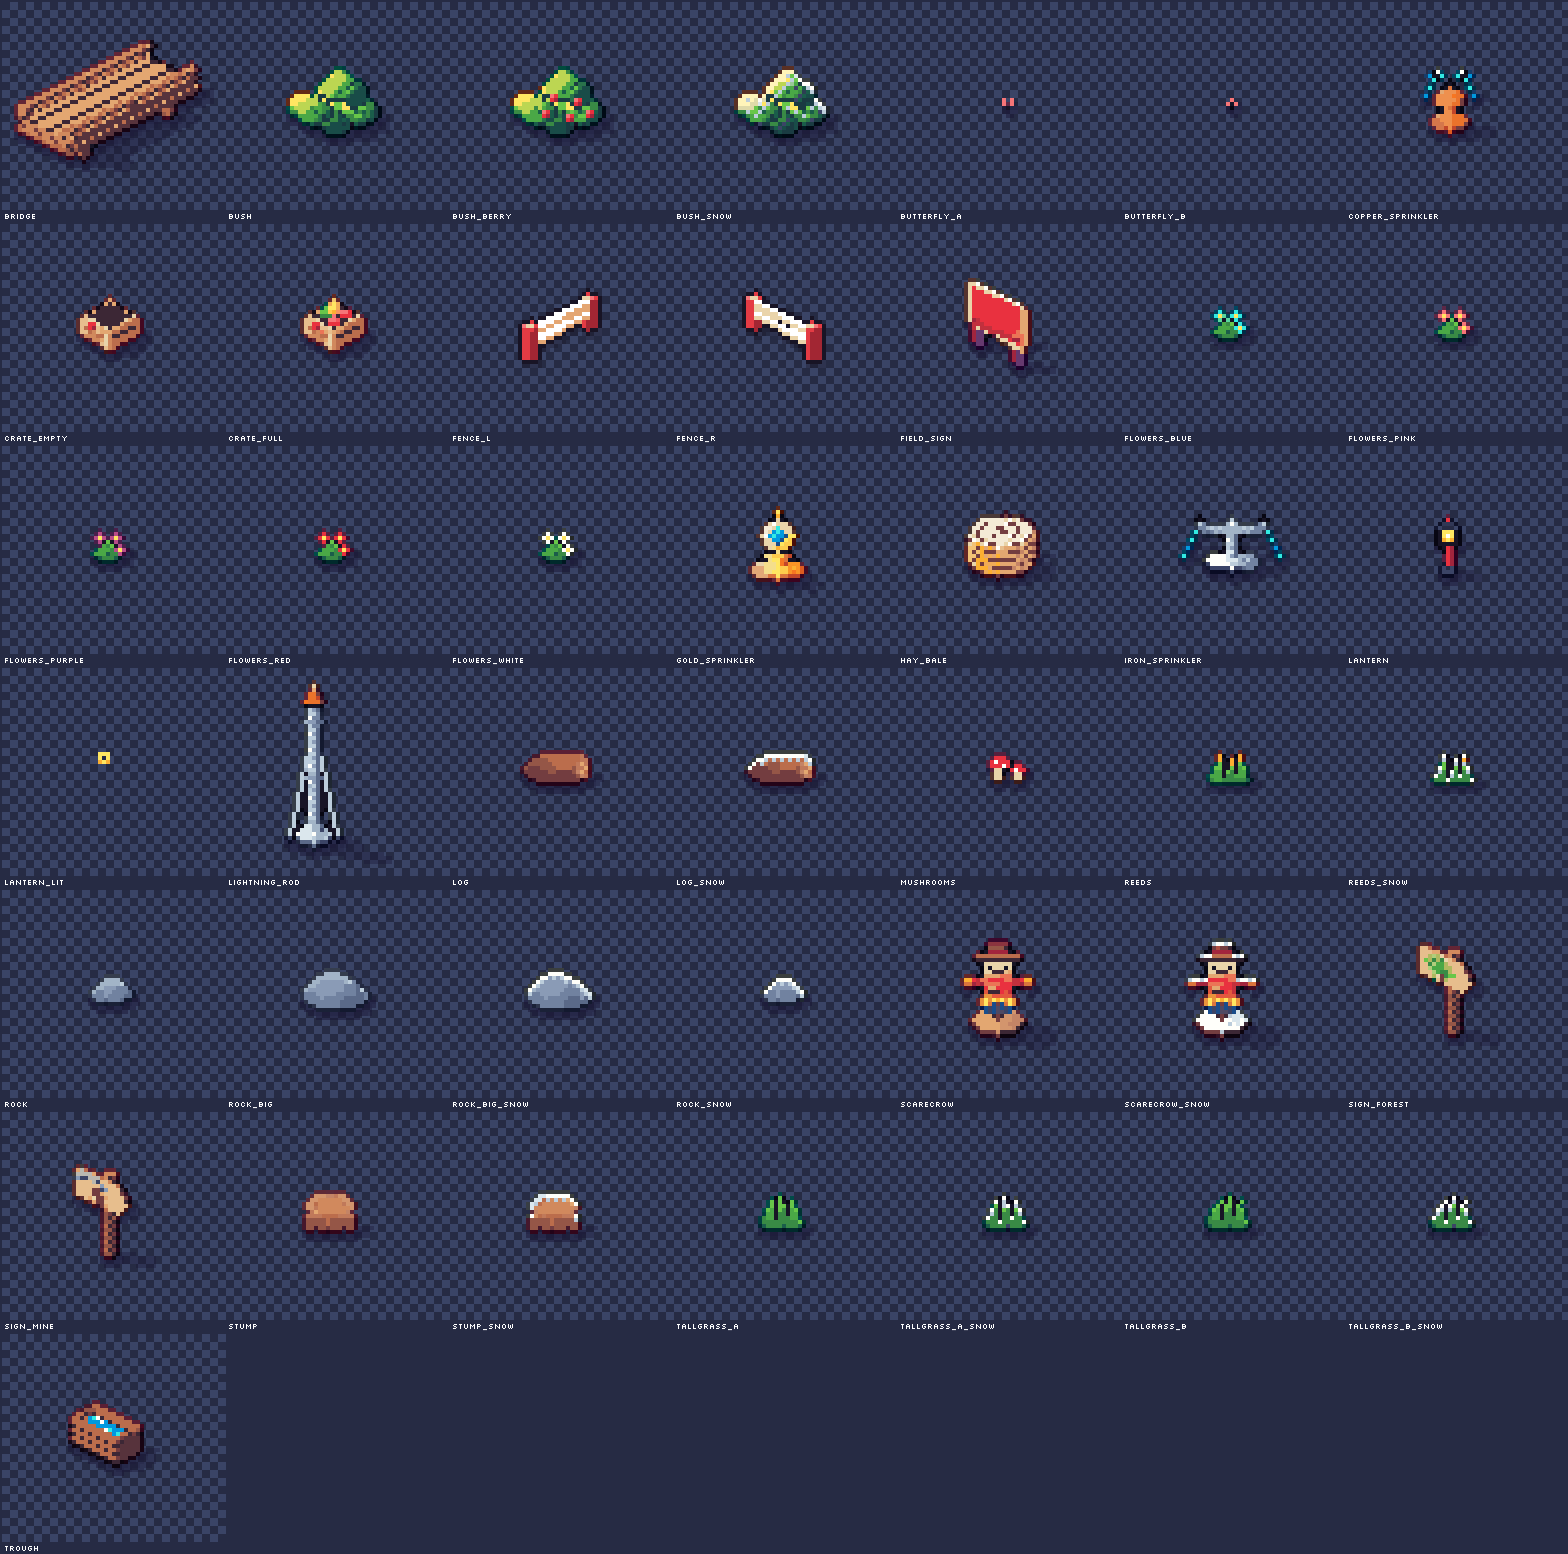
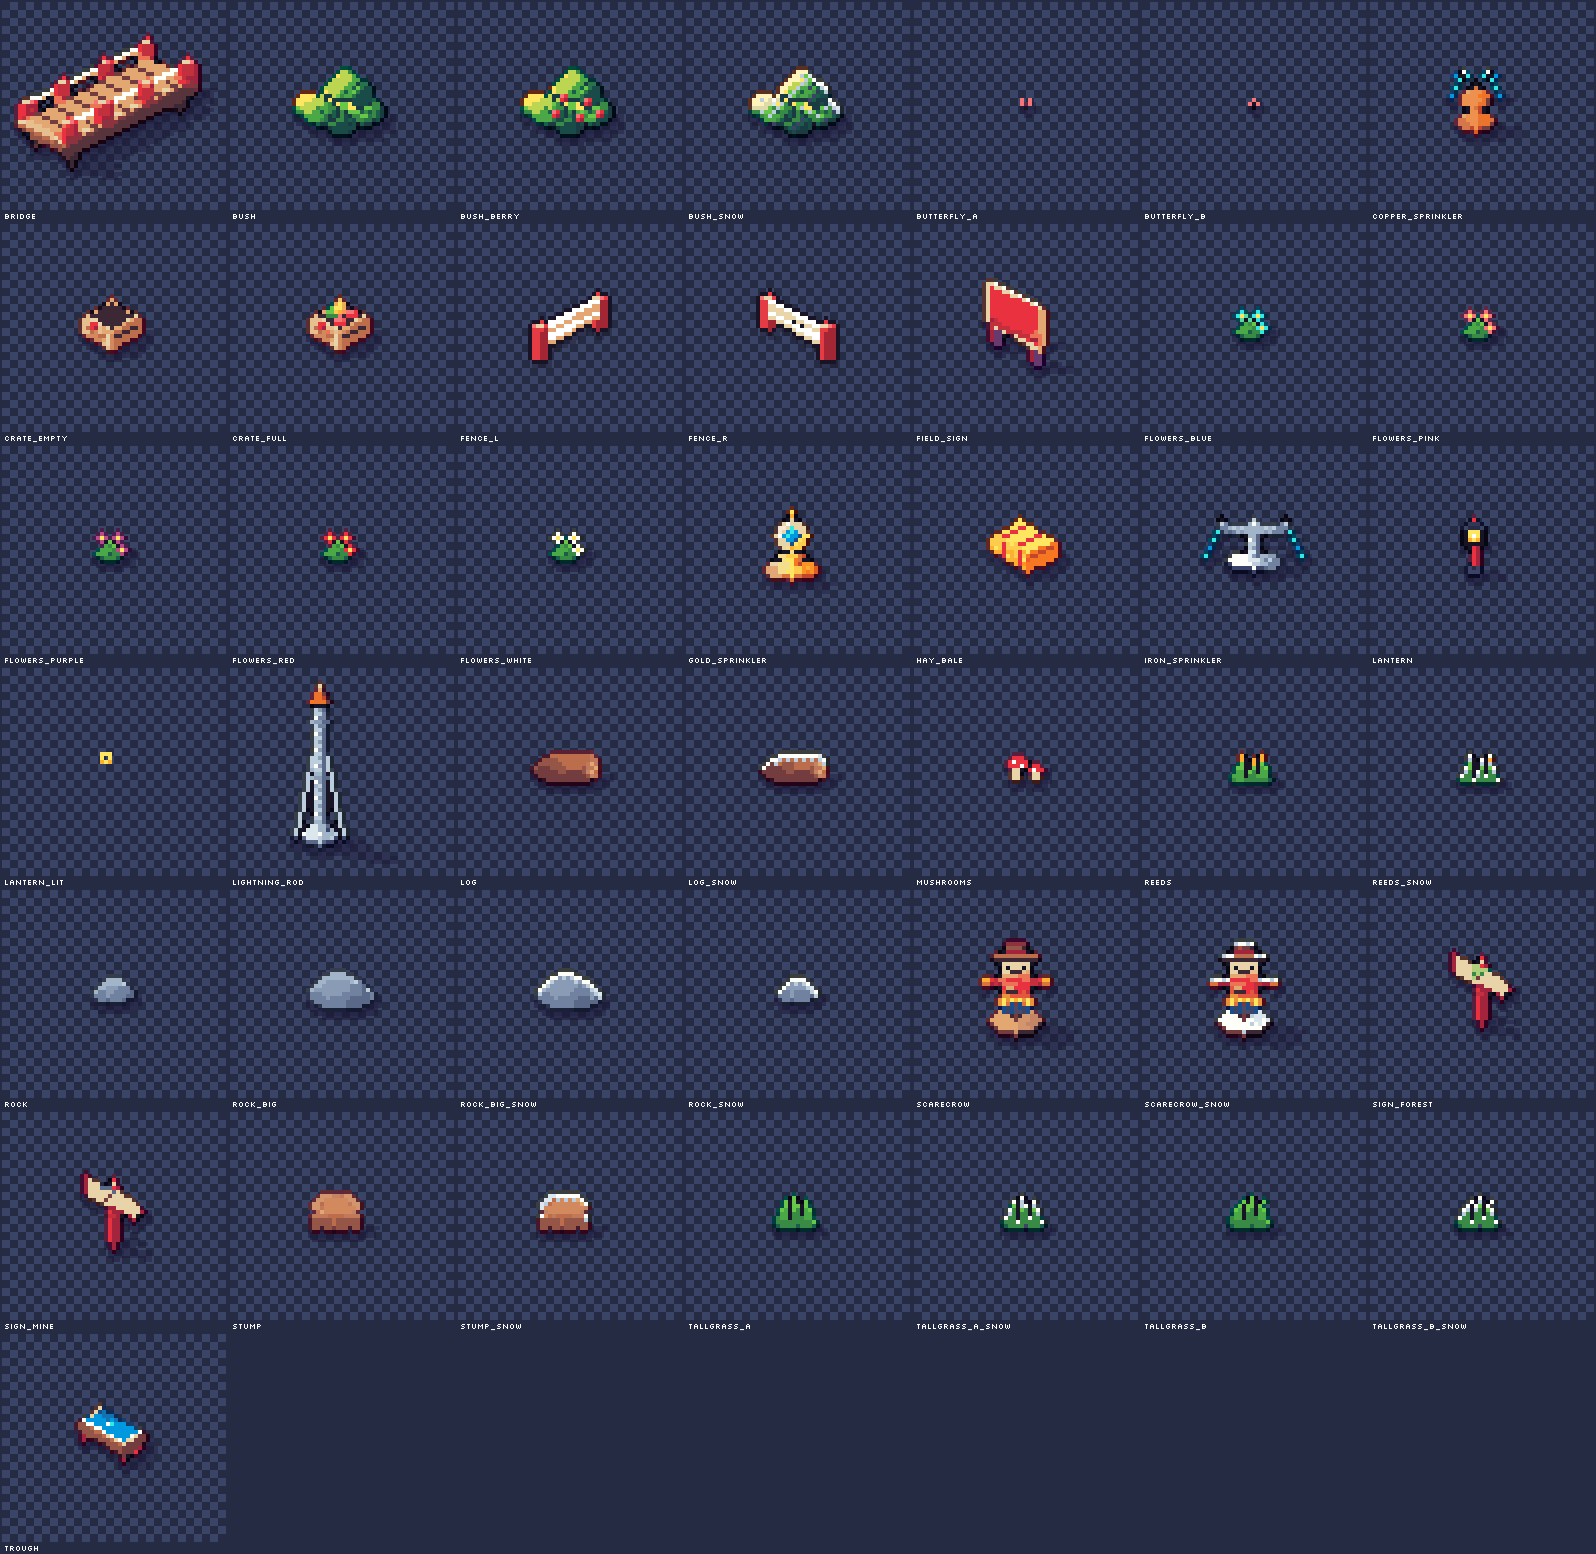
Art round 5: hand-pixeled bunkhouse, hay bale, trough, bridge and signposts
The bunkhouse's lit windows are an overlay on the same canvas and pivot.

Claude-Session: https://claude.ai/code/session_01WzqNnDX2S9CAE6QnGepdXg

diff --git a/farm-game/Tools/ArtGen/pixel/farm_hand.py b/farm-game/Tools/ArtGen/pixel/farm_hand.py
@@ -21,6 +21,8 @@ nothing is copied from them.
   deco/fence_r, fence_l                 one tile of fence along +col / +row, pivot at the start corner
   buildings/compost_bin, bakery_oven, preserves_jar, beehive, fruit_press, seed_maker
   buildings/oil_press, market_cart, harvest_shed, planter_shed, windmill
+  buildings/cottage_c(_lit)             the bunkhouse, and its lit windows for the night overlay
+  deco/hay_bale, trough, bridge, sign_forest, sign_mine
                                         farm machines, each with a cream icon plate
 
 Pivot = the ground centre of the footprint.
@@ -1241,6 +1243,177 @@ def preview5(out):
     sheet.resize((sheet.width * 4, sheet.height * 4), Image.NEAREST).save(out)
 
 
+# ---------------------------------------------------------------- yard props and the bunkhouse
+
+ICONS.update({
+    "bed": (["c....", "crrrr", "ccccc", "c...c"], {"c": "cream", "r": "red"}),
+    "tree": ([".g.", "ggg", "GgG", ".b."], {"g": "green", "G": "green_d", "b": "brown"}),
+    "pick": (["sss.", "...s", "..b.", ".b.."], {"s": "grey_d", "b": "brown"}),
+})
+
+
+def bunkhouse(lit=False):
+    """The farmhands' bunkhouse: a cream cottage with a red roof, red door and shutters, cream
+    window frames, a chimney and a bed on the plate. lit=True draws only the glowing windows (the
+    night overlay)."""
+    c = Iso(56, 60, 28, 42)
+    U, V, WH, PK = 4.4, 3.4, 13, 8
+    windows = [(V, -3.4, -1.8, 5.2, 9.4), (V, 2.0, 3.6, 5.2, 9.4)]          # on the +v face: (v, u0, u1, z0, z1)
+    gable = [(-1.0, 1.0, 5.2, 9.4), (-0.7, 0.7, WH + 1.6, WH + 4.4)]          # on the +u face: (v0, v1, z0, z1)
+    if lit:
+        for v, u0, u1, z0, z1 in windows:
+            c.poly([(u0 + 0.3, v, z0 + 0.5), (u1 - 0.3, v, z0 + 0.5), (u1 - 0.3, v, z1 - 0.5), (u0 + 0.3, v, z1 - 0.5)], "amber")
+            c.zline((u0 + u1) / 2, v, z0 + 0.5, z1 - 0.5, "yellow")
+        for v0, v1, z0, z1 in gable:
+            c.poly([(U, v0 + 0.3, z0 + 0.5), (U, v1 - 0.3, z0 + 0.5), (U, v1 - 0.3, z1 - 0.5), (U, v0 + 0.3, z1 - 0.5)], "amber")
+        return c, c.pivot(0, 0)
+    c.box(1.6, 2.8, -2.6, -1.4, WH, WH + PK + 4, "grey_l", "grey", "grey_d")  # chimney (behind the ridge)
+    c.box(1.4, 3.0, -2.8, -1.2, WH + PK + 3, WH + PK + 4.2, "cream", "cream", "tan")
+    shed(c, U, V, WH, PK)
+    for v, u0, u1, z0, z1 in windows:
+        c.poly([(u0, v, z0), (u1, v, z0), (u1, v, z1), (u0, v, z1)], "cream")
+        c.poly([(u0 + 0.3, v, z0 + 0.5), (u1 - 0.3, v, z0 + 0.5), (u1 - 0.3, v, z1 - 0.5), (u0 + 0.3, v, z1 - 0.5)], "blue_d")
+        c.zline((u0 + u1) / 2, v, z0 + 0.5, z1 - 0.5, "cream")
+        c.zline(u0 - 0.2, v, z0, z1, "red"); c.zline(u1 + 0.6, v, z0, z1, "red")      # shutters
+        x, y = c.p(u0 + 0.4, v, z1 - 0.8)
+        c.dot(x, y, "cyan")
+    for v0, v1, z0, z1 in gable:
+        c.poly([(U, v0, z0), (U, v1, z0), (U, v1, z1), (U, v0, z1)], "cream")
+        c.poly([(U, v0 + 0.3, z0 + 0.5), (U, v1 - 0.3, z0 + 0.5), (U, v1 - 0.3, z1 - 0.5), (U, v0 + 0.3, z1 - 0.5)], "slate_d")
+    c.poly([(-0.9, V, 1.2), (0.9, V, 1.2), (0.9, V, 9.6), (-0.9, V, 9.6)], "cream")   # door
+    c.poly([(-0.6, V, 1.2), (0.6, V, 1.2), (0.6, V, 9.2), (-0.6, V, 9.2)], "red")
+    c.dot(*c.p(0.4, V, 5), "cream")
+    c.box(-1.4, 1.4, V, V + 0.8, 0, 1.2, "grey_l", "grey", "grey_d")      # step
+    plate(c, -1.2, 1.2, V, 10, 12.6, "bed")
+    c.box(-U + 0.4, -U + 2.0, V + 0.2, V + 0.8, 1.6, 2.2, "brown_l", "brown", "brown_d")   # bench
+    soften(c.im)
+    return c, c.pivot(0, 0)
+
+
+def hay_bale():
+    """A square straw bale tied with two red twine bands."""
+    c = Iso(26, 24, 13, 16)
+    U, V, H = 2.4, 1.7, 4.6
+    c.box(-U, U, -V, V, 0, H, "yellow", "amber", "orange")
+    for u, v, z in ((-1.6, V, 2), (0.6, V, 3.2), (-0.4, V, 1.2), (1.6, V, 2.4)):     # straw ends
+        x, y = c.p(u, v, z)
+        c.dot(x, y, "yellow")
+    for u in (-1.0, 1.0):                                                   # twine
+        c.zline(u, V, 0, H, "red")
+        c.vline(u, 2 * V, -V, H, "red")
+    c.vline(U, 2 * V, -V, 2.4, "rust")
+    soften(c.im)
+    return c, c.pivot(0, 0)
+
+
+def trough():
+    """A wooden water trough on red legs, water with a glint inside a cream rim."""
+    c = Iso(28, 22, 14, 14)
+    U, V = 2.8, 1.3
+    for u, v in ((-U + 0.2, V - 0.5), (U - 0.5, V - 0.5), (U - 0.5, -V + 0.2)):
+        c.box(u, u + 0.3, v, v + 0.3, 0, 1.4, "red", "red", "red_d")
+    c.box(-U, U, -V, V, 1.4, 4.6, "cream", "brown_l", "brown")
+    c.uline(-U, U, V, 3, "brown")
+    c.poly([(-U + 0.5, -V + 0.5, 4.6), (U - 0.5, -V + 0.5, 4.6), (U - 0.5, V - 0.5, 4.6), (-U + 0.5, V - 0.5, 4.6)], "blue")
+    c.uline(-U + 0.5, U - 0.5, -V + 0.5, 4.6, "blue_d")
+    x, y = c.p(-0.6, 0, 4.6)
+    c.dot(x, y, "white"); c.dot(x + 1, y, "cyan")
+    soften(c.im)
+    return c, c.pivot(0, 0)
+
+
+def bridge():
+    """A plank bridge running along v (up-right on screen): natural planks, red posts with cream
+    caps and cream rails, like the fences. Pivot on the water at its centre."""
+    c = Iso(50, 38, 25, 24)
+    U, L = 2.9, 8
+    rail, post = ("white", "cream", "tan"), ("red", "red", "red_d")
+
+    def railing(u):
+        c.box(u - 0.2, u + 0.2, -L, L, 9.4, 10.4, *rail)
+        for v in (-L + 0.2, -L / 3, L / 3, L - 1.0):
+            c.box(u - 0.4, u + 0.4, v, v + 0.8, 6.4, 11.2, *post)
+            x, y = c.p(u, v + 0.4, 11.2)
+            c.dot(x, y, "cream"); c.dot(x - 1, y, "cream")
+    for u, v in ((-U + 0.4, -L + 1), (U - 0.8, -L + 1), (-U + 0.4, L - 1.4), (U - 0.8, L - 1.4)):
+        c.box(u, u + 0.4, v, v + 0.4, 0, 3.6, "brown_l", "brown", "brown_d")   # piles
+    railing(-U + 0.3)
+    c.box(-U - 0.2, U + 0.2, -L, L, 3.6, 5, "brown_l", "brown", "brown_d", lit=False)
+    c.box(-U, U, -L, L, 5, 6.4, "tan", "brown_l", "brown")
+    for k in range(1, L):
+        c.uline(-U, U, -L + 2 * k, 6.4, "brown")                               # plank seams
+    railing(U - 0.3)
+    soften(c.im)
+    return c, c.pivot(0, 0)
+
+
+def signpost(icon):
+    """A red post with a cream arrow board in a red edge, the destination's icon painted on it."""
+    c = Iso(26, 30, 13, 24)
+    c.box(-0.3, 0.3, -0.3, 0.3, 0, 15, "red", "red", "red_d")
+    c.dot(*c.p(0, 0, 15), "cream")
+    u0, u1, z0, z1 = -3.0, 2.6, 9, 14.4
+    pts = [(u0, 0.35, z0), (u1, 0.35, z0), (u1 + 1.2, 0.35, (z0 + z1) / 2), (u1, 0.35, z1), (u0, 0.35, z1)]
+    c.poly(pts, "red_d")
+    inner = [(u0 + 0.5, 0.35, z0 + 0.6), (u1, 0.35, z0 + 0.6), (u1 + 0.6, 0.35, (z0 + z1) / 2), (u1, 0.35, z1 - 0.6), (u0 + 0.5, 0.35, z1 - 0.6)]
+    c.poly(inner, "cream")
+    rows, key = ICONS[icon]
+    x, y = c.p(-0.4, 0.35, (z0 + z1) / 2)
+    x -= len(rows[0]) // 2
+    y -= len(rows) // 2
+    for j, row in enumerate(rows):
+        for i, ch in enumerate(row):
+            if ch in key:
+                c.dot(x + i, y + j, key[ch])
+    soften(c.im)
+    return c, c.pivot(0, 0)
+
+
+YARD = [("buildings/cottage_c", bunkhouse), ("deco/hay_bale", hay_bale), ("deco/trough", trough),
+        ("deco/bridge", bridge), ("deco/sign_forest", lambda: signpost("tree")), ("deco/sign_mine", lambda: signpost("pick"))]
+
+
+def preview6(out):
+    """Yard props: today's sprite over the hand-pixeled one, 4x."""
+    from PIL import Image, ImageDraw
+    sys.path.insert(0, os.path.join(os.path.dirname(os.path.abspath(__file__)), ".."))
+    import polish
+    art = os.path.join(os.path.dirname(os.path.abspath(__file__)), "..", "..", "..", "app", "src", "main", "assets", "art")
+    man = json.load(open(os.path.join(art, "manifest.json")))
+    hand = Image.open(os.path.join(art, "people/hana_se_idle.png")).convert("RGBA")
+    hp = man["people/hana_se_idle"]
+    cw, ch = 80, 76
+    sheet = Image.new("RGBA", (cw * len(YARD), ch * 2), (62, 137, 72, 255))
+    for i, (key, fn) in enumerate(YARD):
+        for row in range(2):
+            ax, ay = i * cw + 46, row * ch + ch - 12
+            sheet.alpha_composite(hand, (ax - 30 - hp["ax"], ay - hp["ay"]))
+            if row == 0:
+                im = Image.open(os.path.join(art, key + ".png")).convert("RGBA")
+                p = man[key]
+                sheet.alpha_composite(im, (ax - p["ax"], ay - p["ay"]))
+            else:
+                cnv, (px_, py_) = fn()
+                x0, y0, x1, y1 = cnv.im.getbbox()
+                body, pad = finish(cnv.im.crop((x0, y0, x1, y1)))
+                sys.stderr.write("%s bh %d (now %d)\n" % (key, body.height, man[key].get("bh", 0)))
+                body = polish.polish(body, "world", key)
+                sheet.alpha_composite(body, (ax - (px_ - x0 + pad), ay - (py_ - y0 + pad)))
+    sheet.resize((sheet.width * 4, sheet.height * 4), Image.NEAREST).save(out)
+
+
+def emit_overlay(sp, name, made, under):
+    """Saves an overlay (no outline, shadow or polish) on the canvas and pivot of the sprite
+    `under` already saved by sp, so the engine can draw one exactly over the other."""
+    from PIL import Image
+    cnv, (px, py) = made
+    base = Image.open(os.path.join(sp.dir, under + ".png"))
+    p = sp.pivots[f"{sp.group}/{under}"]
+    out = Image.new("RGBA", base.size, (0, 0, 0, 0))
+    out.alpha_composite(cnv.im, (p["ax"] - px, p["ay"] - py))
+    sp.save(name, out, p["ax"], p["ay"])
+
+
 def emit(sp, name, made):
     cnv, (px, py) = made
     x0, y0, x1, y1 = cnv.im.getbbox()
@@ -1268,6 +1441,10 @@ def main():
     emit(deco, "fence_l", fence(False))
     for name, fn in MACHINES + MACHINES_2:
         emit(bld, name, fn())
+    for key, fn in YARD:
+        group, name = key.split("/")
+        emit(bld if group == "buildings" else deco, name, fn())
+    emit_overlay(bld, "cottage_c_lit", bunkhouse(True), "cottage_c")
     for name, fn in (("barn", barn), ("silo", silo), ("orders", orders), ("workbench", workbench), ("well", well), ("market", market)):
         emit(bld, name, fn(False))
         emit(bld, name + "_snow", fn(True))
@@ -1324,5 +1501,7 @@ if __name__ == "__main__":
         preview4(sys.argv[2])
     elif len(sys.argv) > 2 and sys.argv[1] == "--preview5":
         preview5(sys.argv[2])
+    elif len(sys.argv) > 2 and sys.argv[1] == "--preview6":
+        preview6(sys.argv[2])
     else:
         main()

diff --git a/farm-game/Tools/ArtGen/pixel/village.py b/farm-game/Tools/ArtGen/pixel/village.py
@@ -735,18 +735,12 @@ def main():
     bld = Sprites(art, "buildings")
     deco = Sprites(art, "deco")
 
-    # The pickup truck and its load, the harvester, the field sign and the crates are
-    # hand-pixeled in farm_hand.py (art round 5).
+    # The pickup truck and its load, the harvester, the bunkhouse (cottage_c), the bridge, the
+    # signposts, the field sign, the crates, the hay bale and the trough are hand-pixeled in
+    # farm_hand.py (art round 5).
 
     emit(bld, "cottage_a", cottage_a())
     emit(bld, "cottage_b", cottage_b())
-    emit(bld, "cottage_c", cottage_c())
-
-    emit(deco, "bridge", bridge())
-    emit(deco, "sign_forest", signpost(TREE_ICON))
-    emit(deco, "sign_mine", signpost(PICK_ICON))
-    emit(deco, "hay_bale", hay_bale())
-    emit(deco, "trough", trough())
 
     pivots = {}
     for sp in (veh, bld, deco):

diff --git a/farm-game/Tools/ArtGen/pixel/night.py b/farm-game/Tools/ArtGen/pixel/night.py
@@ -65,7 +65,7 @@ def main():
     art = sys.argv[1]
     bld, deco = Sprites(art, "buildings"), Sprites(art, "deco")
     ns = village()
-    for name in ("cottage_a", "cottage_b", "cottage_c"):
+    for name in ("cottage_a", "cottage_b"):                                  # cottage_c: farm_hand.py
         im, (ax, ay) = windows(ns, ns[name])
         bld.save(name + "_lit", im, ax, ay)
     manifest = json.load(open(os.path.join(art, "manifest.json")))

diff --git a/farm-game/Docs/DECISIONS.md b/farm-game/Docs/DECISIONS.md
@@ -5,7 +5,7 @@ Answers the owner gave while scoping the game. `GAME_DESIGN.md` must follow thes
 ## Platform and presentation
 - Native Android (Kotlin, custom Canvas renderer). No Unity.
 - Portrait, isometric view. Tap the farm directly (Hay Day style); there is no avatar.
-- Pixel art: 32px, Endesga-32 palette, checker dithering, black outline, hard drop shadow. Art round 3 (sharp and clean, inspired by a lush reference but without its blur): a wider palette with hue shifting (shadows cooler, highlights warmer), no dithering (clean steps), coloured outlines, crisp see-through cast shadows to the lower right with sun spots under trees, leaf-cluster foliage, and posterised ground patches with grass clumps. World sprites and items get this from Tools/ArtGen/polish.py; art round 4 gives UI icons, panels, buttons and villager portraits the same clean look (9-slice sizes and corners unchanged). Rocks (picked from three styles): ore-coloured rocks about a farmhand wide and knee high, three shape variants each; ore and stone item icons match. The Mine Mouth is a timber tunnel cut into a grass-topped block that joins the quarry cliffs. Art round 5 (owner pick: a hand-pixeled redo of the main farm, Dither Farm's own painted-toy look): flat bold paint, chunky rounded silhouettes and a lit edge on every top, with three signature marks repeated across the farm: the barn's red-and-cream trim, the wheat-sheaf emblem from the app icon and hand-painted names. Drawn pixel by pixel on the iso grid (Tools/ArtGen/pixel/_iso.py, farm_hand.py), in batches the owner sees first; the pickup truck and its load, the workbench, the well and the market stall came first, then the barn (owner pick of three: DITHER FARM painted on its slate roof, a wheat barn-quilt on the wall, the wheat on the cupola), a cream silo with red hoops and dome, and the orders board; then a yellow combine with a red header and turning reel, slatted crates with a red stamp, cream-railed fences on red posts (neighbouring segments share one chunky post), red field signs in a cream frame and red lamp posts; then the small farm machines (compost bin, bakery oven, preserves shelf, beehive, fruit press, seed maker), each with a cream plate carrying a painted icon rather than a name (owner pick); and the rest: an oil press with a millstone on edge, a striped market cart, a harvest shed (red roof) and a planter shed (green roof), and a cream windmill with a red cap and plain cream sails. Every farm building, machine, vehicle and prop is now hand-pixeled (the ray-cast models stay in buildings.py, village.py and machines_farm.py for comparison only). All sized to the scale bands. Reference packs the owner shared were looked at for readability only; nothing is copied from them.
+- Pixel art: 32px, Endesga-32 palette, checker dithering, black outline, hard drop shadow. Art round 3 (sharp and clean, inspired by a lush reference but without its blur): a wider palette with hue shifting (shadows cooler, highlights warmer), no dithering (clean steps), coloured outlines, crisp see-through cast shadows to the lower right with sun spots under trees, leaf-cluster foliage, and posterised ground patches with grass clumps. World sprites and items get this from Tools/ArtGen/polish.py; art round 4 gives UI icons, panels, buttons and villager portraits the same clean look (9-slice sizes and corners unchanged). Rocks (picked from three styles): ore-coloured rocks about a farmhand wide and knee high, three shape variants each; ore and stone item icons match. The Mine Mouth is a timber tunnel cut into a grass-topped block that joins the quarry cliffs. Art round 5 (owner pick: a hand-pixeled redo of the main farm, Dither Farm's own painted-toy look): flat bold paint, chunky rounded silhouettes and a lit edge on every top, with three signature marks repeated across the farm: the barn's red-and-cream trim, the wheat-sheaf emblem from the app icon and hand-painted names. Drawn pixel by pixel on the iso grid (Tools/ArtGen/pixel/_iso.py, farm_hand.py), in batches the owner sees first; the pickup truck and its load, the workbench, the well and the market stall came first, then the barn (owner pick of three: DITHER FARM painted on its slate roof, a wheat barn-quilt on the wall, the wheat on the cupola), a cream silo with red hoops and dome, and the orders board; then a yellow combine with a red header and turning reel, slatted crates with a red stamp, cream-railed fences on red posts (neighbouring segments share one chunky post), red field signs in a cream frame and red lamp posts; then the small farm machines (compost bin, bakery oven, preserves shelf, beehive, fruit press, seed maker), each with a cream plate carrying a painted icon rather than a name (owner pick); and the rest: an oil press with a millstone on edge, a striped market cart, a harvest shed (red roof) and a planter shed (green roof), and a cream windmill with a red cap and plain cream sails. Then the yard: the bunkhouse (cream, red roof and shutters, its lit windows drawn on the same canvas), a square hay bale with red twine, a trough on red legs, a plank bridge with red posts and cream rails, and red signposts with painted tree and pick icons. Every farm building, machine, vehicle and prop is now hand-pixeled (the scarecrow was already a hand-drawn map and stays; the greenhouse is drawn in code; the ray-cast models stay in buildings.py, village.py and machines_farm.py for comparison only). All sized to the scale bands. Reference packs the owner shared were looked at for readability only; nothing is copied from them.
 - Font: Silkscreen (OFL).
 - SFX only, no music. Haptics with a settings toggle.
 - App name: **Dither Farm**. The APK is built by GitHub Actions.
